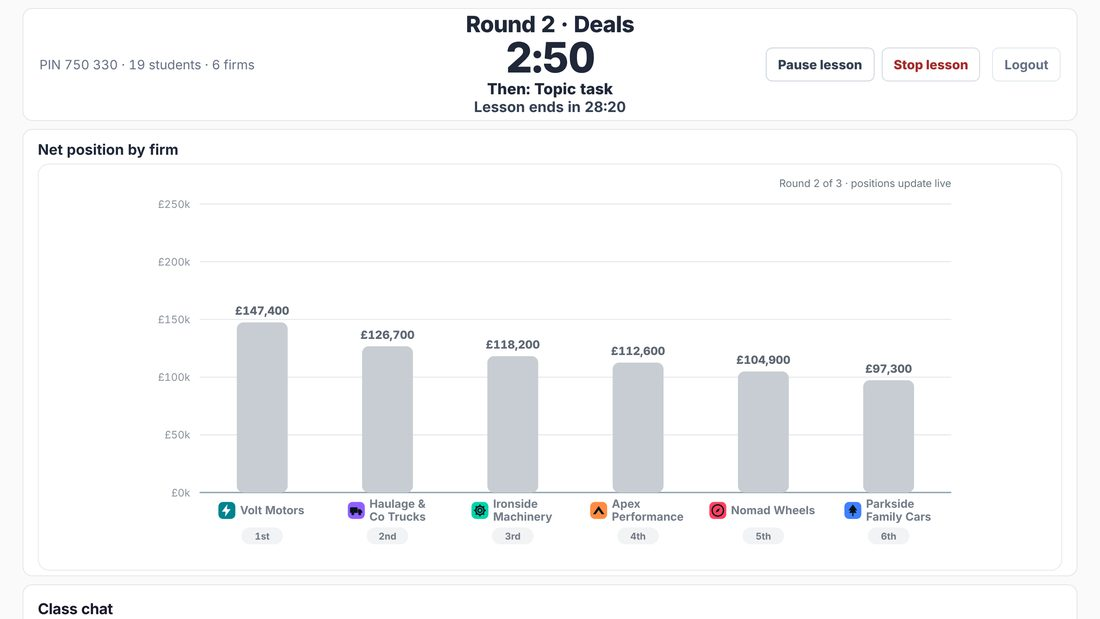
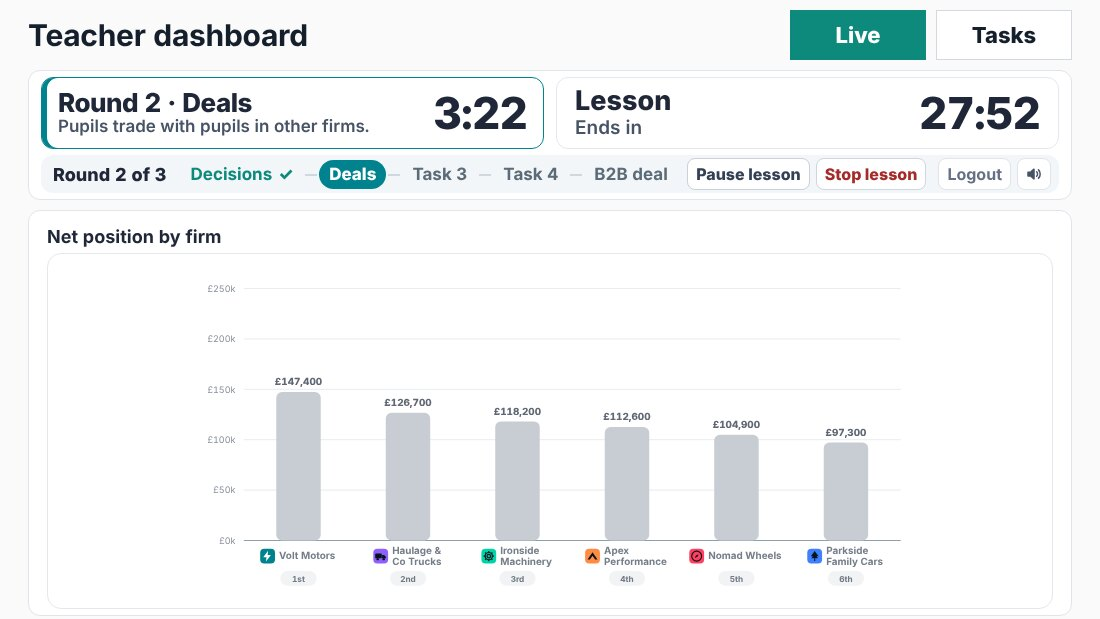
Site pictures: the teacher's new header (step box, lesson box, round row)
Re-take howto/4-teacher.jpg (home) and uk/uk-g-topic-dashboard.jpg (topic
tasks) from the game's teacher view of 15.11.2026. References bumped to
?v=20261115a.

Claude-Session: https://claude.ai/code/session_01Np2n7mwxyzcaQWByNZ1ReD

diff --git a/index.html b/index.html
@@ -675,7 +675,7 @@
       <p style="color:#40506e;font-size:16.5px">A revision lesson at the end of each topic, or a business activity any time (No topic).</p>
       <p style="color:#40506e;font-size:16.5px;margin-top:10px">The lesson runs step by step. The whole class works on the same step at the same time, and your screen shows how many firms are done.</p>
     </div>
-    <div class="hs-wrap"><div class="hs"><div class="hs-list" role="tablist" aria-label="How a lesson runs"><button class="hs-item" type="button" role="tab" aria-selected="true" data-i="0"><span class="hs-n">01</span><span><span class="hs-t">Students join with a PIN</span><span class="hs-d">You pick the class and the lesson length. The whole class joins with one PIN.</span></span></button><button class="hs-item" type="button" role="tab" aria-selected="false" data-i="1"><span class="hs-n">02</span><span><span class="hs-t">Each firm votes where to open</span><span class="hs-d">Everyone votes. Most votes wins.</span></span></button><button class="hs-item" type="button" role="tab" aria-selected="false" data-i="2"><span class="hs-n">03</span><span><span class="hs-t">Everyone deals</span><span class="hs-d">Students buy, price and negotiate face to face.</span></span></button><button class="hs-item" type="button" role="tab" aria-selected="false" data-i="3"><span class="hs-n">04</span><span><span class="hs-t">Every round, the same order</span><span class="hs-d">Firm decisions, deals with classmates, topic tasks, then a B2B deal between firms.</span></span></button><button class="hs-item" type="button" role="tab" aria-selected="false" data-i="4"><span class="hs-n">05</span><span><span class="hs-t">You see every firm live</span><span class="hs-d">Pause and Stop are one click away.</span></span></button><button class="hs-item" type="button" role="tab" aria-selected="false" data-i="5"><span class="hs-n">06</span><span><span class="hs-t">Questions, then the winner</span><span class="hs-d">Six final questions, then the podium.</span></span></button><button class="hs-item" type="button" role="tab" aria-selected="false" data-i="6"><span class="hs-n">07</span><span><span class="hs-t">Every student gets a report</span><span class="hs-d">You download the class pack.</span></span></button></div><div class="hs-view"><div class="hs-frame"><i class="hs-corner tl"></i><i class="hs-corner tr"></i><i class="hs-corner bl"></i><i class="hs-corner br"></i><div class="hs-stack"><img class="hs-img on" src="/assets/tbs-web/howto/1-join.jpg?v=20261112c" alt="Students join with a PIN" width="1100" height="619"><img class="hs-img" src="/assets/tbs-web/howto/2-location.jpg?v=20261110" alt="Each firm votes where to open" loading="lazy" width="1100" height="619"><img class="hs-img" src="/assets/tbs-web/howto/3-deal.jpg?v=20261112" alt="Everyone deals" loading="lazy" width="1100" height="619"><img class="hs-img" src="/assets/tbs-web/howto/3b-margin.jpg?v=20261112d" alt="Every round, the same order" loading="lazy" width="1100" height="619"><img class="hs-img" src="/assets/tbs-web/howto/4-teacher.jpg?v=20261113c" alt="You see every firm live" loading="lazy" width="1100" height="619"><img class="hs-img" src="/assets/tbs-web/howto/5-winner.jpg?v=20261113b" alt="Questions, then the winner" loading="lazy" width="1100" height="619"><img class="hs-img" src="/assets/tbs-web/howto/6-report.jpg?v=20261113d" alt="Every student gets a report" loading="lazy" width="1100" height="619"></div><div class="hs-bar"><i></i></div></div><p class="hs-cap" aria-live="polite"></p></div></div></div>
+    <div class="hs-wrap"><div class="hs"><div class="hs-list" role="tablist" aria-label="How a lesson runs"><button class="hs-item" type="button" role="tab" aria-selected="true" data-i="0"><span class="hs-n">01</span><span><span class="hs-t">Students join with a PIN</span><span class="hs-d">You pick the class and the lesson length. The whole class joins with one PIN.</span></span></button><button class="hs-item" type="button" role="tab" aria-selected="false" data-i="1"><span class="hs-n">02</span><span><span class="hs-t">Each firm votes where to open</span><span class="hs-d">Everyone votes. Most votes wins.</span></span></button><button class="hs-item" type="button" role="tab" aria-selected="false" data-i="2"><span class="hs-n">03</span><span><span class="hs-t">Everyone deals</span><span class="hs-d">Students buy, price and negotiate face to face.</span></span></button><button class="hs-item" type="button" role="tab" aria-selected="false" data-i="3"><span class="hs-n">04</span><span><span class="hs-t">Every round, the same order</span><span class="hs-d">Firm decisions, deals with classmates, topic tasks, then a B2B deal between firms.</span></span></button><button class="hs-item" type="button" role="tab" aria-selected="false" data-i="4"><span class="hs-n">05</span><span><span class="hs-t">You see every firm live</span><span class="hs-d">Pause and Stop are one click away.</span></span></button><button class="hs-item" type="button" role="tab" aria-selected="false" data-i="5"><span class="hs-n">06</span><span><span class="hs-t">Questions, then the winner</span><span class="hs-d">Six final questions, then the podium.</span></span></button><button class="hs-item" type="button" role="tab" aria-selected="false" data-i="6"><span class="hs-n">07</span><span><span class="hs-t">Every student gets a report</span><span class="hs-d">You download the class pack.</span></span></button></div><div class="hs-view"><div class="hs-frame"><i class="hs-corner tl"></i><i class="hs-corner tr"></i><i class="hs-corner bl"></i><i class="hs-corner br"></i><div class="hs-stack"><img class="hs-img on" src="/assets/tbs-web/howto/1-join.jpg?v=20261112c" alt="Students join with a PIN" width="1100" height="619"><img class="hs-img" src="/assets/tbs-web/howto/2-location.jpg?v=20261110" alt="Each firm votes where to open" loading="lazy" width="1100" height="619"><img class="hs-img" src="/assets/tbs-web/howto/3-deal.jpg?v=20261112" alt="Everyone deals" loading="lazy" width="1100" height="619"><img class="hs-img" src="/assets/tbs-web/howto/3b-margin.jpg?v=20261112d" alt="Every round, the same order" loading="lazy" width="1100" height="619"><img class="hs-img" src="/assets/tbs-web/howto/4-teacher.jpg?v=20261115a" alt="You see every firm live" loading="lazy" width="1100" height="619"><img class="hs-img" src="/assets/tbs-web/howto/5-winner.jpg?v=20261113b" alt="Questions, then the winner" loading="lazy" width="1100" height="619"><img class="hs-img" src="/assets/tbs-web/howto/6-report.jpg?v=20261113d" alt="Every student gets a report" loading="lazy" width="1100" height="619"></div><div class="hs-bar"><i></i></div></div><p class="hs-cap" aria-live="polite"></p></div></div></div>
     <div style="display:flex;gap:14px;justify-content:center;flex-wrap:wrap;margin-top:8px">
       <a href="/trial/" style="display:inline-block;background:#0a6b73;color:#fff;font-weight:700;border-radius:12px;padding:19px 38px;text-decoration:none;font-size:20px;box-shadow:0 8px 24px rgba(10,107,115,.35)">Request a trial</a>
       <a href="https://play.thebusiness.school/demo/group-classroom/" style="display:inline-block;background:#fff;color:#0e2038;border:1px solid #c9d3df;font-weight:700;border-radius:12px;padding:19px 30px;text-decoration:none;font-size:18px">Try the Teacher Demo</a>

diff --git a/topic-tasks/index.html b/topic-tasks/index.html
@@ -240,7 +240,7 @@ footer a{color:#40506e;text-decoration:none;margin-right:18px}
       <div class="card"><h3>Which firms were wrong</h3><p>Named on your screen, ready to talk through.</p></div>
       <div class="card"><h3>Every firm's net position</h3><p>On the same page, live.</p></div>
     </div>
-    <figure class="shot"><img src="/assets/tbs-web/uk/uk-g-topic-dashboard.jpg?v=20261113c" width="1600" height="900" loading="lazy" decoding="async" alt="The teacher's Live screen: Task 4, every firm's answer with a tick or a cross, 4 right and 2 wrong, and the right answer for the wrong firms."><figcaption>Your dashboard: each task, and which firms got it right.</figcaption></figure>
+    <figure class="shot"><img src="/assets/tbs-web/uk/uk-g-topic-dashboard.jpg?v=20261115a" width="1600" height="900" loading="lazy" decoding="async" alt="The teacher's Live screen: Task 4, every firm's answer with a tick or a cross, 4 right and 2 wrong, and the right answer for the wrong firms."><figcaption>Your dashboard: each task, and which firms got it right.</figcaption></figure>
   </div>
 </section>
 
